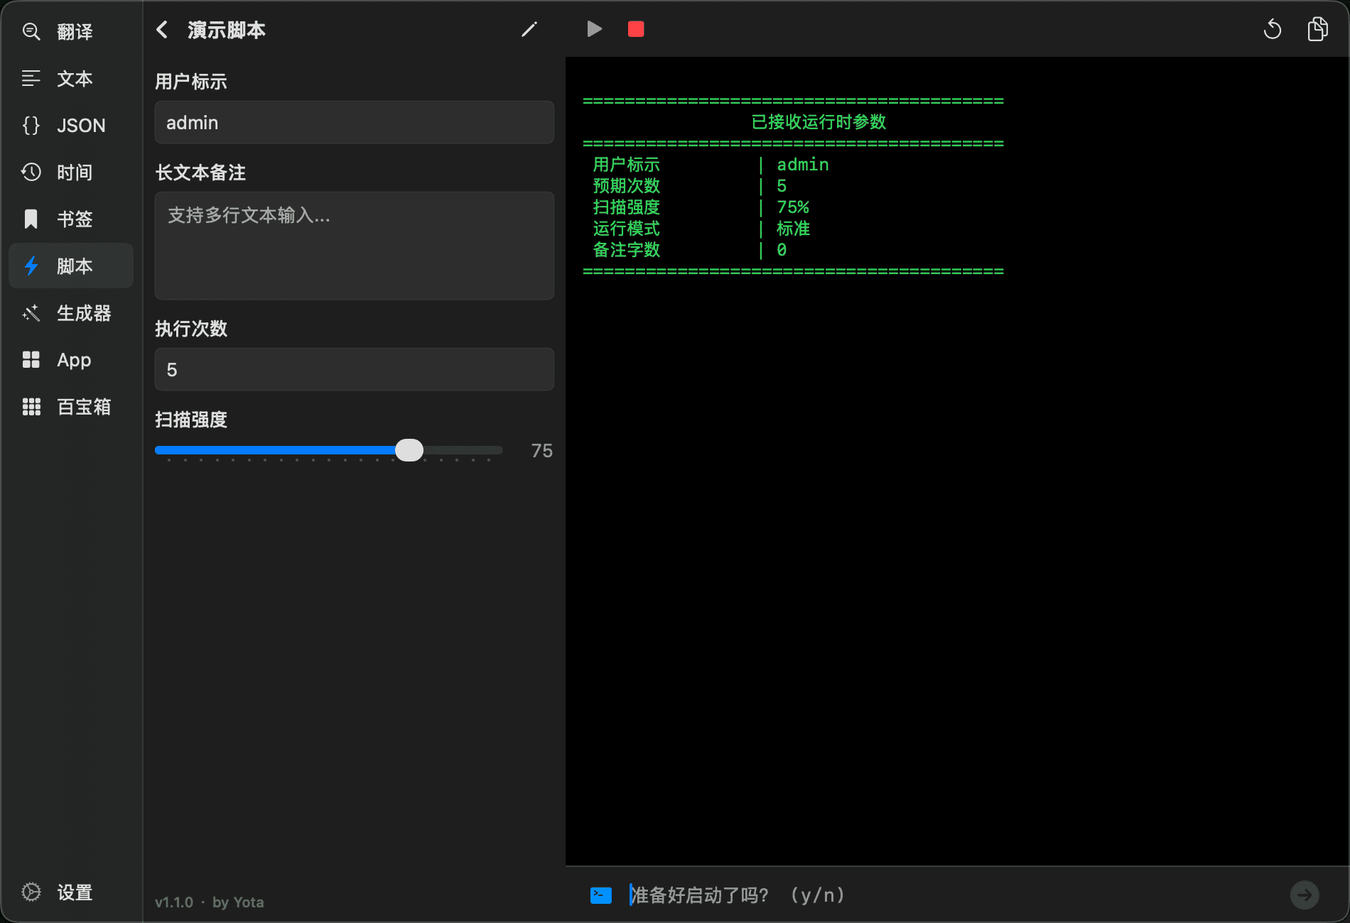
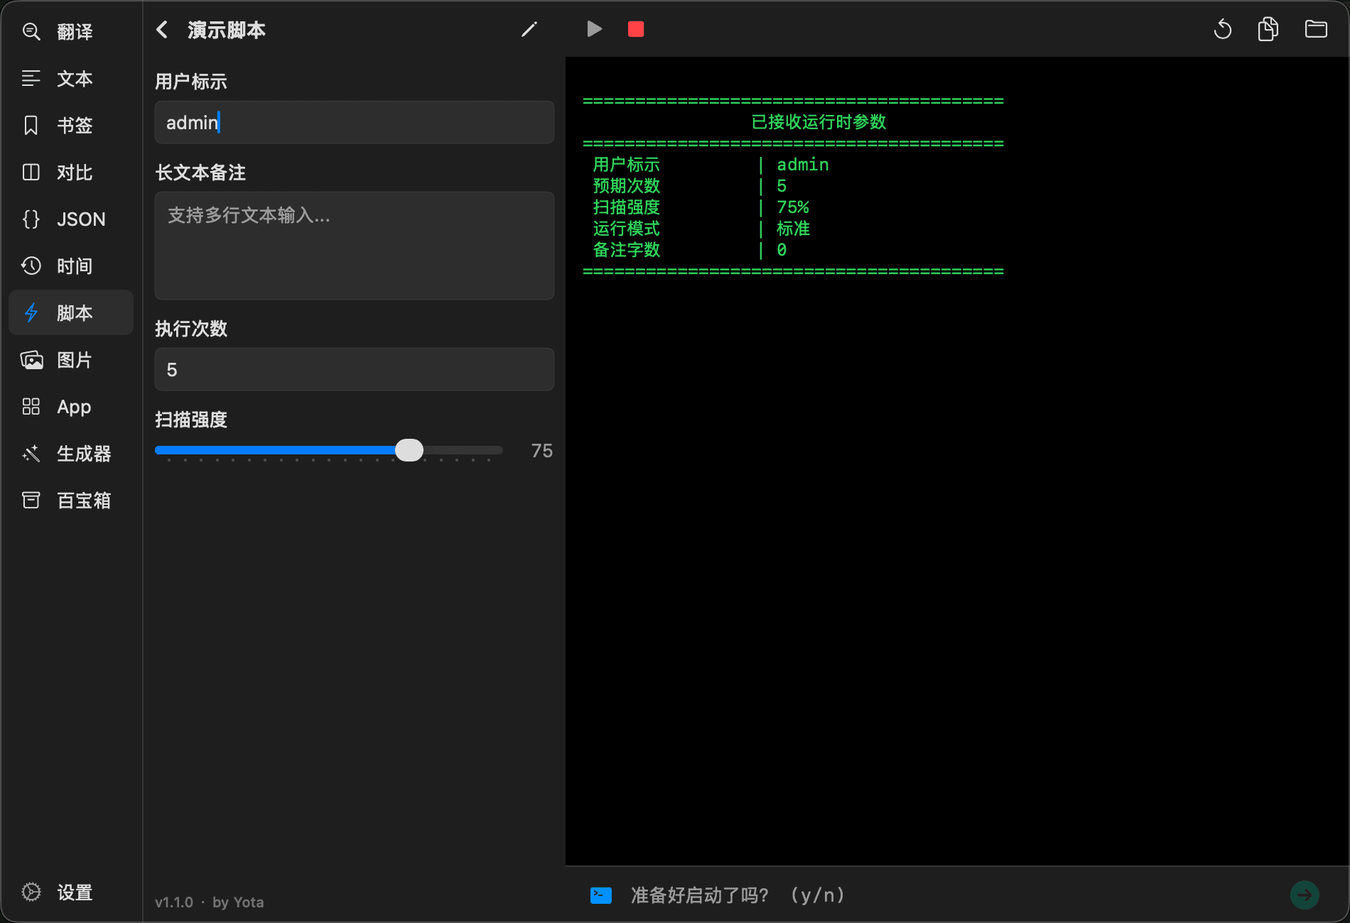
feat: 新增图片工具与文本多条件筛选，优化多项使用体验

diff --git a/README.md b/README.md
@@ -1,163 +1,218 @@
 <div align="center">
-  <img src="./docs/icon.png" width="120" height="120" alt="Yota Icon" />
+  <img src="./docs/icon.png" width="112" height="112" alt="Yota 图标" />
 
-  <h1>Yota v2</h1>
+  <h1>Yota</h1>
 
-  <p>
-    <strong>macOS 开发者生产力工具箱 | 原生 · 极速 · 智能</strong>
-  </p>
+  <p><strong>复制即识别，脚本即工具。</strong></p>
 
-  <p>
-    <em>From Iota to Yotta.</em><br>
-    始于极微，致于无穷
-  </p>
+  <p>一款常驻 macOS 菜单栏的原生开发工具，提供剪贴板识别、跨应用操作和本地脚本扩展。</p>
 
   <p>
-    <img src="https://img.shields.io/badge/Platform-macOS%2012.0%2B-blue?style=flat-square" alt="Platform" />
-    <img src="https://img.shields.io/badge/Swift-6.0-orange?style=flat-square" alt="Swift" />
+    <img src="https://img.shields.io/badge/macOS-12.0%2B-111111?style=flat-square&logo=apple" alt="支持 macOS 12.0 及以上版本" />
     <a href="https://github.com/chengu61/Yota/releases/latest">
-      <img src="https://img.shields.io/github/v/release/chengu61/Yota?label=Download&style=flat-square&logo=github&color=brightgreen" alt="Download" />
+      <img src="https://img.shields.io/github/v/release/chengu61/Yota?label=Release&style=flat-square&logo=github" alt="最新版本" />
     </a>
   </p>
 
   <p>
-    <a href="https://github.com/chengu61/Yota/releases/latest">🚀 立即下载最新版本</a>
+    <a href="https://github.com/chengu61/Yota/releases/latest">下载</a>
+    &nbsp;&middot;&nbsp;
+    <a href="#安装">安装</a>
+    &nbsp;&middot;&nbsp;
+    <a href="./CHANGELOG.md">更新记录</a>
   </p>
 </div>
 
-<br>
-
-Yota 是一款专为 macOS 开发者设计的轻量级工具箱。它常驻于 Menu Bar，旨在为您提供即用即走的极致开发体验。
-
----
-
-### 对比工具 [NEW]
-
-提供精准的文本与 JSON 差异比对能力：
-
 <div align="center">
-<img src="./docs/compare.png" width="600" alt="Generator Tool Preview" />
+  <a href="./docs/image.png">
+    <img src="./docs/image.png" width="900" alt="Yota 图片工作区" />
+  </a>
 </div>
 
-- **直观比对**: 双侧视图同步滚动，精确到字符级别的差异高亮。
-- **极速响应**: 基于原生视图引擎构建，支持长文本的瞬间解析与流畅预览。
-- **快速对比**: 深度集成系统剪贴板，复制内容自动加入比对。
-- **智能过滤**: 一键忽略空格、换行及大小写差异，专注核心逻辑。
-- **快捷导航**: 自动统计差异总数，支持在各个差异区块间快速跳转定位。
-- **拖拽支持**: 直接将文本文件拖入编辑区，即刻读取并开启比对。
-- **JSON 增强**: 内置 JSON 识别与格式化，支持按键名排序后精准比对。
+## 工作方式
 
-### 自动化脚本 [NEW]
+默认按下 `Shift + Space` 或点击菜单栏图标即可呼出，快捷键可以在设置中修改。工具可以按习惯排序或隐藏；切换工具时，各工作区会保留当前内容和操作状态。
 
-将本地脚本 (Python, Node.js, Shell, Ruby) 转化为 Yota 生产力工具：
+## 剪贴板与跨应用操作
+
+Yota 可以在后台识别剪贴板内容。识别采用严格规则，尽量避免普通数字、订单号和代码片段触发工具。
+
+- 复制时间戳、ISO 8601、日志日期或中文日期时，在屏幕角落显示转换结果。
+- 复制对象、数组或混合文本中嵌入的 JSON 时，自动进入 JSON 工具。
+- 打开空白对比工具后连续复制两段文本，第一次加入左侧，第二次加入右侧并开始对比。
+- 可以忽略连续复制的相同内容；打开 Yota 操作时，后台识别会暂时停止。
+- 时间、JSON 和对比监控可以分别关闭。隐藏工具时，对应监控也会停用。
+
+## 书签
+
+书签可以按行或段落拆分内容。点击一次书签后，在浏览器、终端或其他应用中连续按 `Cmd + V`，Yota 会在每次粘贴完成后准备下一段。
+
+- 支持全文、逐行、逐段和编辑四种点击动作。
+- 使用双空行分隔内容和备注，备注不会进入逐段粘贴序列。
+- 使用 <code>&#123;&#123;书签标题&#125;&#125;</code> 引用其他书签，并检测循环引用。
+- 重命名书签时同步更新其他书签中的引用。
+- 网格和列表视图、多标签、标签自动补全、拼音检索及拖拽排序。
+- 使用次数统计、删除撤销、编辑未保存提醒和 JSON 导入导出。
+- 私密内容默认模糊显示，`Cmd + 点击`可以临时预览。
+
+自动推进剪贴板需要辅助功能权限；未授权时仍可手动复制各段内容。
+
+## 图片
+
+- **压缩**：批量处理 PNG、JPEG、WebP 和 HEIC，支持质量、最长边、并发压缩、压缩率统计及前后预览。结果比原图更大时保留原文件。
+- **格式转换**：在 PNG、JPEG、WebP、HEIC 等格式之间批量转换，支持质量设置、预览和批量导出。
+- **OCR**：使用 macOS Vision 在本地识别简体中文、繁体中文和英文，支持图像放大、对比度预处理、分块结果和复制全文。
+- **Base64**：图片与 Base64 双向转换，支持 Data URI 前缀、实时预览和还原保存。
+- **编辑**：智能抠图、蒙版擦除和恢复、裁切、旋转、翻转、画布缩放、画笔、形状、箭头、模糊和马赛克，支持撤销和重做。
+- **元数据**：查看尺寸、色彩空间、相机、曝光和 GPS 等 EXIF 信息，可以单张或批量清除元数据后另存。
+
+## 对比
+
+- 使用针对大文本优化的 Myers 差分和锚点分治算法，差异在后台计算。
+- 左右视图保持物理行高对齐并同步滚动。
+- 同时显示行级、词级和字符级差异。
+- 差异缩略图显示全局分布，可以点击或拖动定位。
+- 支持搜索、差异统计、上一个或下一个差异、交换左右内容。
+- 点击差异箭头，可以将连续差异块采纳到另一侧。
+- 空格、换行和大小写变化可以标记为次要差异并忽略。
+- 支持拖入文本文件；两侧均为 JSON 时，可以格式化并按键名排序后比较。
 
 <div align="center">
-<img src="./docs/automation.png" width="600" alt="Generator Tool Preview" />
+  <a href="./docs/compare.png">
+    <img src="./docs/compare.png" width="820" alt="Yota 对比工作区" />
+  </a>
 </div>
 
-- **协议驱动**: 只需在脚本头部添加简单的 YAML 配置注释，即可自动生成 **原生 UI 输入表单**。
-- **参数联动**: 支持 `show_if` 逻辑，实现复杂的参数显示/隐藏控制。
-- **环境隔离**: 自动识别脚本目录下的虚拟环境（如 Python `.venv`），确保运行环境的一致性。
-- **深度交互**: 脚本通过标准输出 JSON 指令直接唤起宿主能力（如：复制结果、请求用户确认、打开 URL 等）。
-- **多端触达**: 无论是数据处理脚本还是系统运维命令，一键点击启动，实时查看运行输出。
+## 脚本
 
-### 百宝箱
+将 Python、Node.js、Shell 或 Ruby 脚本所在的文件夹添加为脚本库，Yota 会自动发现脚本。文件夹发生变化后，脚本列表会自动刷新。
 
-低频但刚需的小工具聚合中心：
+脚本头部可以使用 YAML 注释声明参数，Yota 根据声明生成原生表单。支持：
 
-- **二维码** [NEW]: 支持生成并复制/保存二维码；支持剪贴板粘贴、路径及拖拽图片，采用双引擎智能解码识别。
-- **路径解析**: 在 Finder 中选中文件/文件夹，快速提取目录、文件名及扩展名等结构信息。
-- **快捷公式**: 预设自定义变量与公式，输入参数即可实时计算。支持大数高精度计算，提供内置辅助函数速查面板。
-- **编码转换**: 支持 Base64、URL、Unicode 等多种格式的快速一键编解码。
-- **CRON 预览**: 直观解析 Crontab 表达式的执行周期。
-- **进制互转**: 完美支持 2 / 8 / 10 / 16 进制之间的快捷切换。
-- **随机实验室**: 多维度生成 UUID、高强度随机字符串及数字。
-- **原生拾色**: 支持全屏点选取色。
+- 文本、多行文本、数字、滑块、开关、下拉选择、文件和目录八种控件。
+- 必填校验、数值上下限、步长、密码遮挡和 `show_if` 参数联动。
+- 自动发现 Python `.venv` / `venv`，并从系统环境中查找其他解释器。
+- 多个脚本库、脚本分类、置顶、拼音检索和运行状态保留。
+- 新建脚本、语法高亮编辑、搜索、保存后运行和未保存提醒。
+- 实时显示 stdout 和 stderr，支持停止进程、复制日志及交互式 stdin。
+- 通过 stdout JSON 指令请求用户输入、复制结果或打开 URL。
 
-### App 工具
+脚本格式和主程序指令可在应用内的“脚本开发手册”中查看。
 
-全方位管理 macOS 应用程序：
+<div align="center">
+  <a href="./docs/automation.png">
+    <img src="./docs/automation.png" width="820" alt="Yota 脚本工作区" />
+  </a>
+</div>
 
-- **灵活组织**: 支持应用列表展示，并可根据您的使用习惯 **自由拖拽排序**。
-- **个性化视图**: 支持 **图标大小** 调节；支持 **隐藏** 不常用的系统或第三方应用。
-- **深度卸载**: 内置强力卸载引擎，自动扫描并清理关联的**残留文件**。
-- **极速检索**: 支持拼音全拼、简拼及多音字搜索，瞬间定位目标应用。
+## JSON
 
-### 生成工具
+- 从日志、接口响应或其他混合文本中提取多个合法 JSON 片段，并在片段之间切换。
+- 根据内容占比和代码上下文过滤误识别，可以单独控制是否识别纯数组。
+- 递归解析字符串中的 JSON，处理多层转义内容。
+- 有序解析器保留输入键序，也支持正序、倒序和 2/4 空格缩进。
+- 格式化、压缩、提取、转义和去转义、Unicode、八进制转义及 Excel TSV 转 JSON。
+- Excel 长数字自动保留为字符串，避免精度丢失。
+- 树形浏览、节点展开和折叠、路径追踪、搜索及左右或上下布局。
+- 包含嵌套深度保护，语法错误会定位到字符偏移量。
 
-强大的模拟数据构造中心，支持高度定制化的复杂数据生成：
+<div align="center">
+  <a href="./docs/json.png">
+    <img src="./docs/json.png" width="820" alt="Yota JSON 工作区" />
+  </a>
+</div>
 
-- **核心引擎**: 支持 `{ {variable} }` 模板语法，满足高度定制化需求。
-- **高效录入**: 模板编辑器支持 `{ {` 触发自动补全；支持将变量**快速插入**至光标当前位置。
-- **智能重构**: 修改变量名时模板引用 **自动同步**；支持 `Cmd+点击` 实现模板与定义间的 **快速溯源**。
-- **数据源丰富**: 内置正则、逻辑脚本、Mock 数据及自定义列表，支持 String/Number/Date 等基础类型。
-- **多格式导出**: 支持 **JSON**、**CSV**、**SQL Insert** 等主流格式，并支持生成方案的本地持久化。
+## 文本
 
-### JSON 工具
+- 多条件保留或排除，支持包含、正则、开头、结尾、精确匹配、AND/OR 和大小写控制。
+- 自动识别分隔符并生成采样预览，可以拖动选择列并自定义连接符。
+- 批量添加或移除前后缀，智能拆分单行或合并多行。
+- 文本或数值排序、随机打乱、反转、去重、去空行、去空白和符号清理。
+- 生成 SQL `IN` 参数，支持引号和自动去重。
+- camelCase、snake_case、PascalCase、kebab-case 及大小写转换。
+- 添加或移除行号、中英文标点互转、简繁体互转和身份证敏感行过滤。
+- 自动识别数字与数学表达式并求和；状态栏显示行列、字符数、字节数和计算结果。
+- 原生编辑器支持行号、搜索替换、跳转行列、语法高亮、自动换行和字号调整。
 
-支持从简单的格式化到复杂的架构分析全流程：
+<div align="center">
+  <a href="./docs/text.png">
+    <img src="./docs/text.png" width="820" alt="Yota 文本工作区" />
+  </a>
+</div>
 
-- **核心操作**: 极速 **格式化/压缩**；支持 **Unicode 与中文** 互转。
-- **有序解析**: 自研解析引擎，支持自定义 **缩进 (2/4)** 与 **键值排序** (默认/正序/倒序)。
-- **可视化视图**: 提供树状结构预览，支持节点展开/折叠及路径快速定位。
-- **系统集成**: **智能去转义** (Smart Unescape)；支持 **Excel (TSV) 转 JSON** 并提供长数字精度保护。
-- **安全保障**: 512 层递归深度限制，精准报错至字符偏移量。
+## 时间
 
-### 文本工具
+- 秒、毫秒、微秒、纳秒及带小数的秒时间戳与日期互转。
+- 识别 ISO 8601、RFC 2822/1123、Nginx/Apache、Syslog、紧凑日期和中文日期。
+- 后台监控使用严格规则，前台手动输入使用宽松规则。
+- 识别 `3600`、`1h`、`1小时30分` 等时长，并显示对应语义和预计到期时间。
+- 在基准时间上加减年、月、日、时、分、秒。
+- 计算两个时间点之间的自然时差和总秒数。
+- 获取当前时间、当天零点、本周、本月和本年首尾等常用时间。
 
-集成了数十种日常开发高频使用的文本处理能力：
+## App
 
-- **分割与合并**: **智能双向转换**。单行按高频字符（逗号、分号等）自动分割，多行按空格一键合并。
-- **行级操作**: 排序（升序/降序/数字识别）、去重、去除空行/首尾空格。
-- **清洗与过滤**: 一键移除符号、清洗身份证号敏感行等。
-- **数学与统计**: 支持对数字行进行 **求和计算**；提供字数、字节数实时统计。
-- **智能生成**: 快速生成指定长度的随机字符串（含数字/字母）。
-- **文本转换**: 中英文标点互转、简繁体互转、编码转换。
-- **编辑器**: 内置高性能代码高亮编辑器，支持原生查找替换与 **自动换行** 切换。
+- 扫描系统和用户应用目录，监听安装、更新和卸载变化。
+- 对应用覆盖更新期间暂时不完整的 Bundle 和图标进行缓存和重试。
+- 支持拼音全拼、简拼、多音字和模糊搜索，点击应用即可启动。
+- 应用可以拖拽排序、隐藏，并调整图标大小。
+- 深度卸载会检查缓存、偏好、容器、WebKit、插件、LaunchAgent、LaunchDaemon 和相关二进制。
+- 根据匹配置信度决定默认选中项；每个项目都可以预览、取消选择或在 Finder 中确认，最终移入废纸篓。
 
-### 时间工具
+## 生成器
 
-涵盖从时间戳转换到复杂推算的完整链路：
+- 使用 <code>&#123;&#123;variable&#125;&#125;</code> 模板组织输出，输入 <code>&#123;&#123;</code> 时自动补全变量。
+- 点击变量插入光标位置，`Cmd + 点击`从模板跳转到变量定义。
+- 修改变量名时同步更新模板引用。
+- 数字序列、随机数字、UUID、随机字符串、日期时间、正则反向生成、JavaScript 表达式、自定义列表和网络信息。
+- 字段可以引用前置字段，用于生成有关联的数据。
+- 实时预览纯文本、JSON、CSV 和 SQL Insert。
+- 方案支持保存、复制、导入和导出，最多生成 99,999 条数据。
 
-- **全格式互转**: 秒/毫秒/微秒/纳秒时间戳与标准日期秒级互转。
-- **智能解析**: 识别 ISO8601、yyyyMMdd 等 40+ 种格式。
-- **高级推算**:
-    - **时间推算**: 在基准时间上灵活加减年、月、日、时、分、秒。
-    - **时差计算**: 精确分析两个时间点间的间隔。
-- **一键填充**: 预设当前时间、零点、本周首尾等常用快照。
-- **静默交互**: 复制时间内容时弹出 **安静的悬浮窗** 反馈，不再打断您的工作流程。
+## 百宝箱
 
-### 翻译工具
+- **快捷公式**：保存表达式或完整 JavaScript 规则，支持单值和 JSON 输入、实时求值、BigInt，以及 MD5、SHA、CRC32、Base64 等辅助函数；支持 JSON 导入导出。
+- **路径解析**：自动读取 Finder 当前选择，查看路径、时间、缩略图、哈希及文本和媒体信息；分析目录占用，并支持多种路径复制及在 Finder、Terminal 中打开。
+- **编码转换**：Unicode、URL、Base64、Hex、Hex Escape、Octal Escape、Binary、HTML Entity、字符串转义、Hash 和 JWT。
+- **Crontab**：校验 5 段或 6 段表达式，解释范围、列表、步长、英文月份和星期，并计算后续运行时间。
+- **随机生成**：批量生成字符串、范围数字和 UUID，支持自定义字符集、排除易混字符、禁止重复数字及单项重新生成。
+- **进制转换**：2、8、10、16 进制实时联动，二进制四位分组，输入范围为 UInt64。
+- **二维码**：生成、复制和保存 PNG；从剪贴板图片、文件、路径、拖拽或网络图片 URL 解码，使用 Vision 和 Core Image 双引擎识别。
+- **拾色器**：全屏取色，联动 HEX、RGB、HSB、HSL、Swift 和 CMYK；计算 WCAG 对比等级，并生成邻近色、互补色、三角色和单色调色板。
 
-- **弹性检索**: 多节点轮询机制，确保请求的高度稳定性。
-- **智能融合**: 自动纠偏拼音，合并碎片化释义并保留完整词性说明。
+## 翻译
 
-### 书签工具
+- 自动识别中英文方向，并将代码标识符中的下划线转换为空格后查询。
+- 并发请求多个在线来源，结果逐步显示，单个来源失败不会阻塞其他结果。
+- 合并重复结果，保留词性和详细释义，优先显示主要翻译。
+- 结合系统拼音和在线结果纠正注音，支持复制单项结果。
 
-代码片段与常用指令的私密管理中心：
+## 安装
 
-- **嵌套引用与联想**: 支持通过 `{{书签标题}}` 嵌套引用其他书签，重命名自动同步更新，支持联想提示与语法高亮。
-- **灵活组织**: 支持 **多标签管理**、标签自动补全 (Ghost Text) 以及 **拖拽重排序**。
-- **隐私模式**: 敏感内容支持 **高斯模糊** 遮盖，通过 `Cmd + 点击` 快速预览。
-- **操作优化**: 点击复制书签后 **窗口自动关闭**，提供更连贯的交互体验。
-- **安全保障**: 引入撤销机制 (Undo) 防止误删；编辑窗口支持未保存提醒。
-- **数据迁移**: 支持 JSON 格式的全量导入与导出备份。
+支持 macOS 12.0 及以上版本，以及 Apple Silicon 和 Intel Mac，不需要注册或登录。
 
----
+1. 从 [GitHub Releases](https://github.com/chengu61/Yota/releases/latest) 下载最新 DMG。
+2. 打开 DMG，将 Yota 拖入“应用程序”。
+3. 启动后，可以通过应用内自动更新获取后续版本。
 
-## 🛠 常见报错：“应用已损坏，无法打开”
+首次运行时如果 macOS 提示应用已损坏，请确认应用位于 `/Applications/Yota.app`，然后执行：
 
-由于 macOS 的安全机制，打开非 App Store 下载的应用可能会触发此提示。可以按照下面方法快速修复：
-
-打开终端，执行以下命令：
-
+```bash
+xattr -rd com.apple.quarantine "/Applications/Yota.app"
 ```
-sudo xattr -rd com.apple.quarantine "/Applications/Yota.app"
-```
 
----
+## 数据与权限
 
-## 📌 更多信息
+设置、书签、公式、生成方案和脚本库配置保存在本机；图片、文本、JSON、时间、文件分析和 OCR 等功能也在本机处理。书签的私密内容仅做界面遮挡，不是加密存储。
 
-- **💬 反馈与建议**: 如果在使用中遇到 Bug 或有新想法，欢迎提交 [GitHub Issue](https://github.com/chengu61/Yota/issues)。
-- **📝 更新日志**: 了解 Yota 的最新功能与优化详情，请查看 [CHANGELOG](./CHANGELOG.md)。
+翻译会将待翻译文本发送到第三方服务；从网络图片 URL 识别二维码时会下载对应图片；点击图片中的 GPS 坐标会打开 Apple 地图。自动更新会下载版本信息和安装包，但不会发送系统配置资料；PNG 压缩缺少本地压缩引擎时，可以按提示下载，图片不会上传。用户添加的脚本是否访问网络或文件，由脚本自身决定。
+
+书签逐段粘贴需要可选的辅助功能权限；读取 Finder 选择和在 Terminal 中打开路径会使用 Apple Events。为了支持脚本执行、应用管理和跨应用操作，Yota 不运行在 App Sandbox 中。
+
+## 反馈
+
+[提交问题或建议](https://github.com/chengu61/Yota/issues) &nbsp;&middot;&nbsp; [查看更新记录](./CHANGELOG.md) &nbsp;&middot;&nbsp; [下载最新版本](https://github.com/chengu61/Yota/releases/latest)
+
+<div align="center">
+  <sub>From Iota to Yotta. 始于极微，致于无穷。</sub>
+</div>

diff --git a/CHANGELOG.md b/CHANGELOG.md
@@ -1,13 +1,33 @@
 # 更新日志
 
+## [2.9.0] - 2026-07-22
+
+### ✨ 新特性
+
+- 新增图片压缩，支持按质量或尺寸压缩，并提供前后对比预览。
+- 新增图片格式转换，支持 PNG、JPEG、WebP、HEIC 等格式互转，并提供对比预览。
+- 新增图片文字识别，支持极速提取图片中的文本内容。
+- 新增图片 Base64 转换，支持图片与 Base64 编码的快捷双向互转。
+- 新增图片编辑，支持智能抠图、裁剪翻转、画笔及马赛克等操作。
+- 新增图片信息查看，支持解析分辨率、色彩空间、曝光、GPS 等 EXIF 详细参数。
+- 文本工具新增多条件筛选，支持包含、正则、首尾匹配等组合规则。
+
+### 🚀 优化
+
+- 路径解析工具新增文件与目录的创建及修改时间展示。
+- 文本工具优化分列与前后缀功能的重置及状态缓存逻辑。
+- 文本工具优化计算与字数统计逻辑。
+- 时间工具优化日期时间的解析能力。
+- 优化界面布局与视觉样式。
+
 ## [2.8.0] - 2026-06-24
 
 ### ✨ 新特性
 
 - 新增二维码生成工具，支持便捷复制或保存为 PNG 图片。
 - 新增二维码识别工具，支持剪贴板粘贴、文件路径识别及拖拽图片，采用双引擎智能解码。
-- 书签工具新增嵌套引用功能，支持通过 `{ {书签标题} }` 语法引用其他书签，并内置循环引用防护。
-- 书签工具编辑页新增联想补全功能，输入 `{ {` 可自动唤出浮动提示面板。
+- 书签工具新增嵌套引用功能，支持通过 <code>&#123;&#123;书签标题&#125;&#125;</code> 语法引用其他书签，并内置循环引用防护。
+- 书签工具编辑页新增联想补全功能，输入 <code>&#123;&#123;</code> 可自动唤出浮动提示面板。
 - 书签工具支持标题重命名时，自动同步更新其他书签内容中的引用占位符。
 - 快捷公式新增大数自动识别与高精度计算，有效防止超长数字计算时产生精度丢失。
 - 快捷公式新增内置变量与辅助函数速查提示面板。
@@ -195,14 +215,14 @@
 
 - **生成工具**:
     - **核心引擎**: 引入强大的 Schema 驱动引擎，支持高度定制化的复杂数据生成。
-    - **模板驱动**: 通过 `{ {variable} }` 语法完全自定义输出结构，灵活适配各种数据格式。
+    - **模板驱动**: 通过 <code>&#123;&#123;variable&#125;&#125;</code> 语法完全自定义输出结构，灵活适配各种数据格式。
         - **方案持久化**: 支持生成方案的本地保存、加载与快捷复制，复用更便捷。
     - **数据源**:
         - 内置基础类型（String/Number/Date），集成正则与逻辑引擎。
         - 支持 Mock 数据及自定义列表，满足多样化测试场景。
         - **多格式导出**: 支持 **JSON**、**CSV**、**SQL Insert**多种导出格式，无缝对接开发需求。
     - **智能辅助**:
-        - **高效录入**: 模板编辑器支持 `{ {` 触发自动补全；支持将变量**快速插入**至光标当前位置。
+        - **高效录入**: 模板编辑器支持 <code>&#123;&#123;</code> 触发自动补全；支持将变量**快速插入**至光标当前位置。
         - **溯源跳转**: 支持 `cmd+点击` 模板中的变量**单向定位**至编辑列表，快速查看变量定义。
         - **同步重构**: 修改变量名称时，模板内所有引用将**自动同步更新**，彻底告别手动查找替换。
     - **全功能工作区**: 集成变量管理、实时预览及可调节分栏布局，打造统一的高效工作环境。
